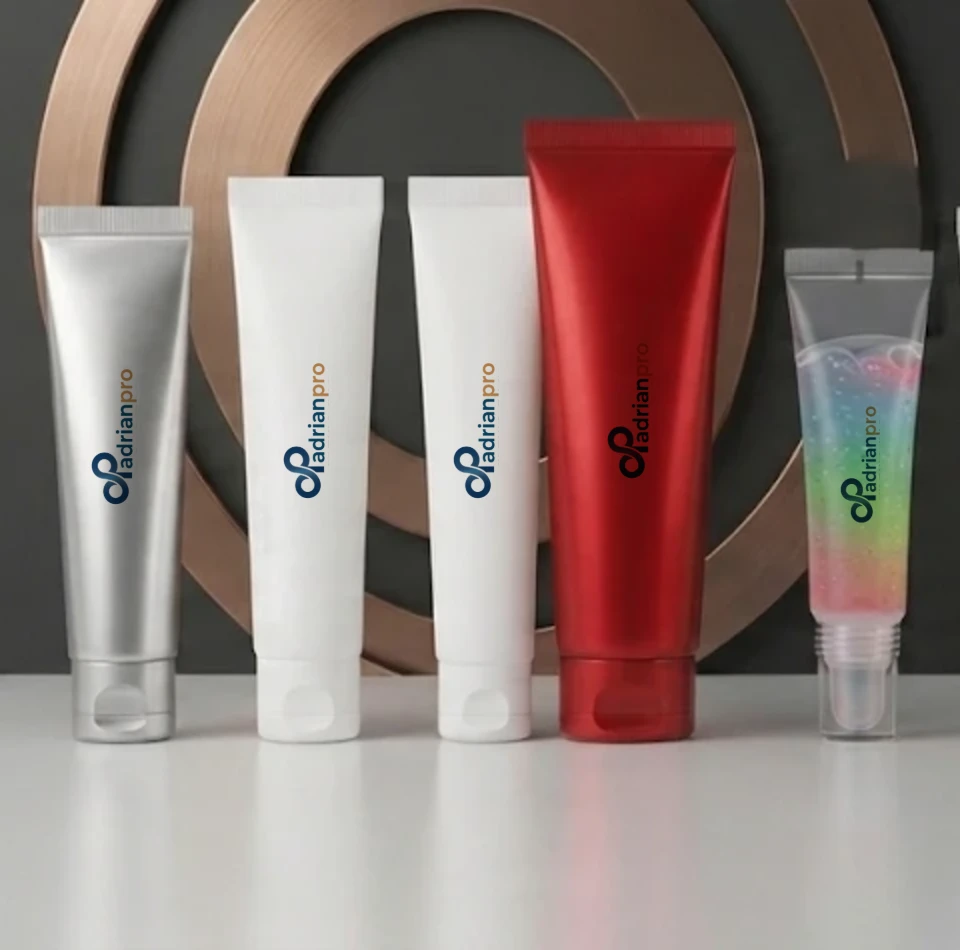
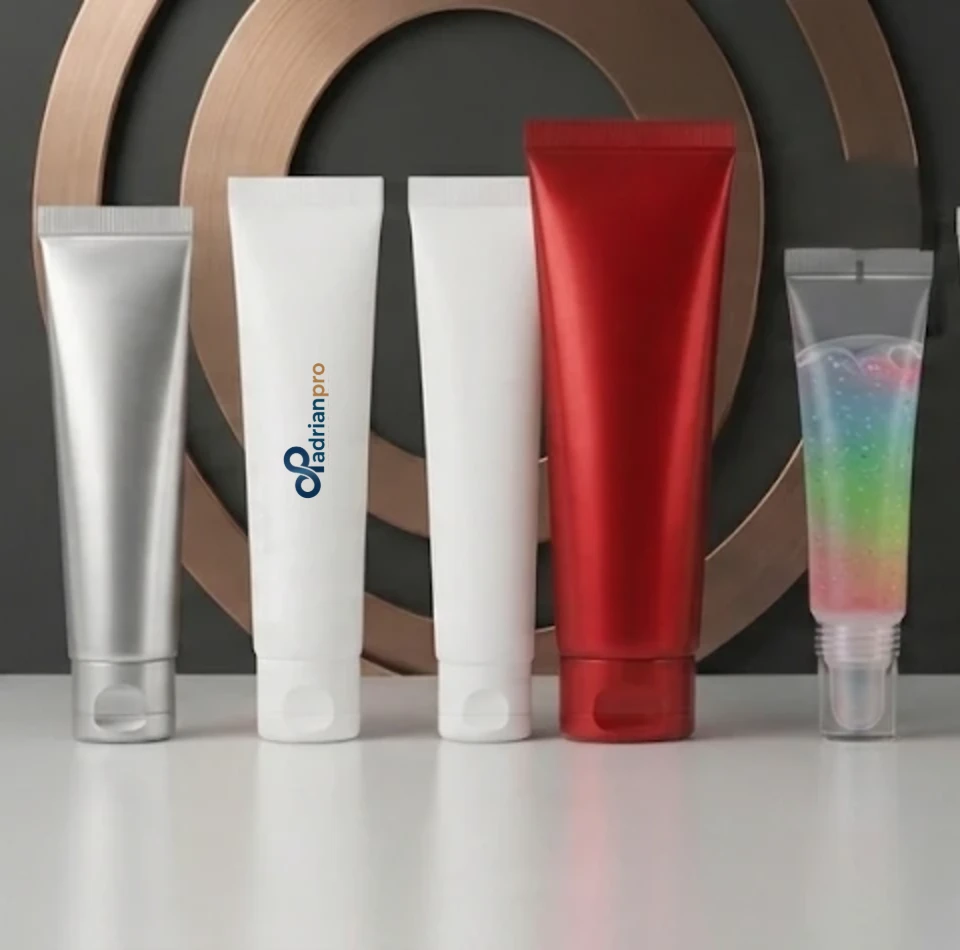
첫 화면: 로고 1개(왼쪽 두 번째 튜브)만 남기고 ABL 문구 제거

diff --git a/index.html b/index.html
@@ -30,7 +30,6 @@
 
         <div class="hero-visual reveal">
           <img src="assets/img/hero.webp" alt="에이드리안프로 라미네이트 튜브 — 실버, 화이트, 레드, 투명 튜브" width="960" height="950" fetchpriority="high">
-          <span class="tag"><b>ABL</b> · ALUMINIUM BARRIER LAMINATE</span>
         </div>
       </div>
 

diff --git a/en/index.html b/en/index.html
@@ -30,7 +30,6 @@
 
         <div class="hero-visual reveal">
           <img src="../assets/img/hero.webp" alt="Adrianpro laminate tubes in silver, white, red and clear" width="960" height="950" fetchpriority="high">
-          <span class="tag"><b>ABL</b> · ALUMINIUM BARRIER LAMINATE</span>
         </div>
       </div>
 
